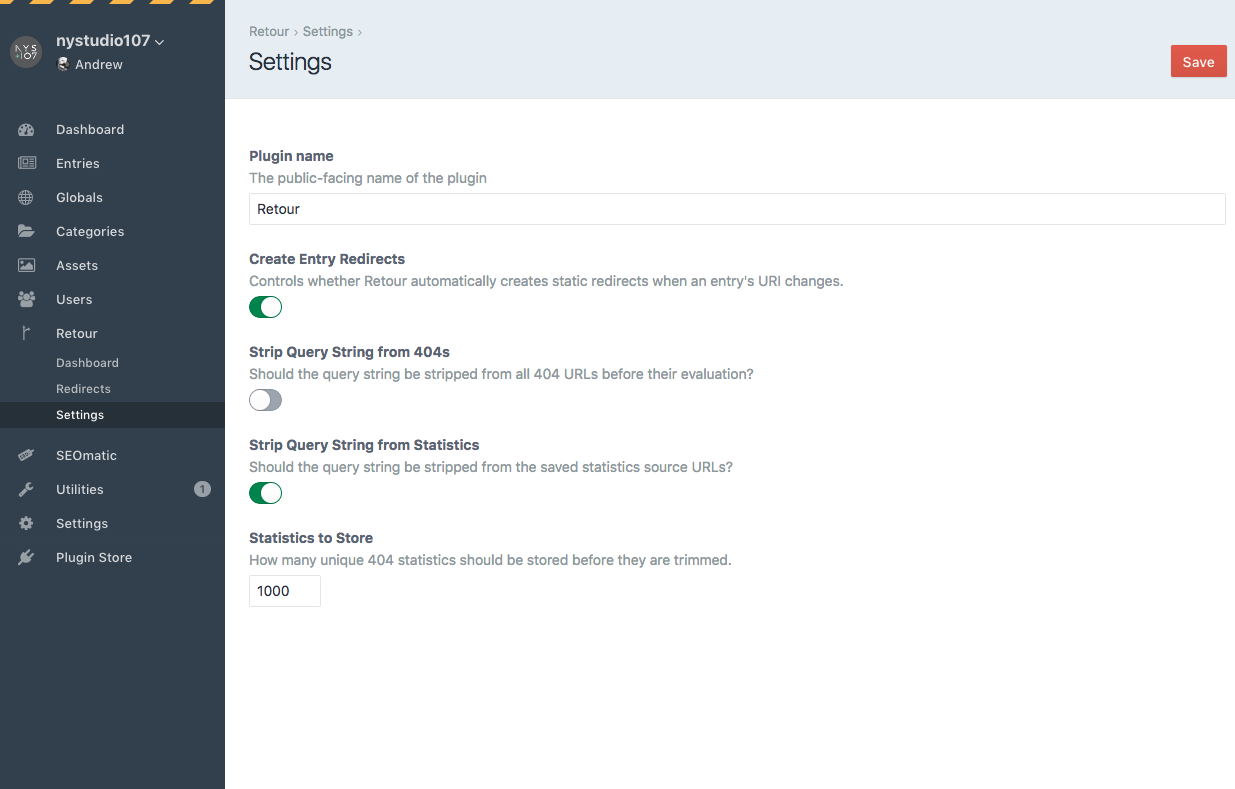
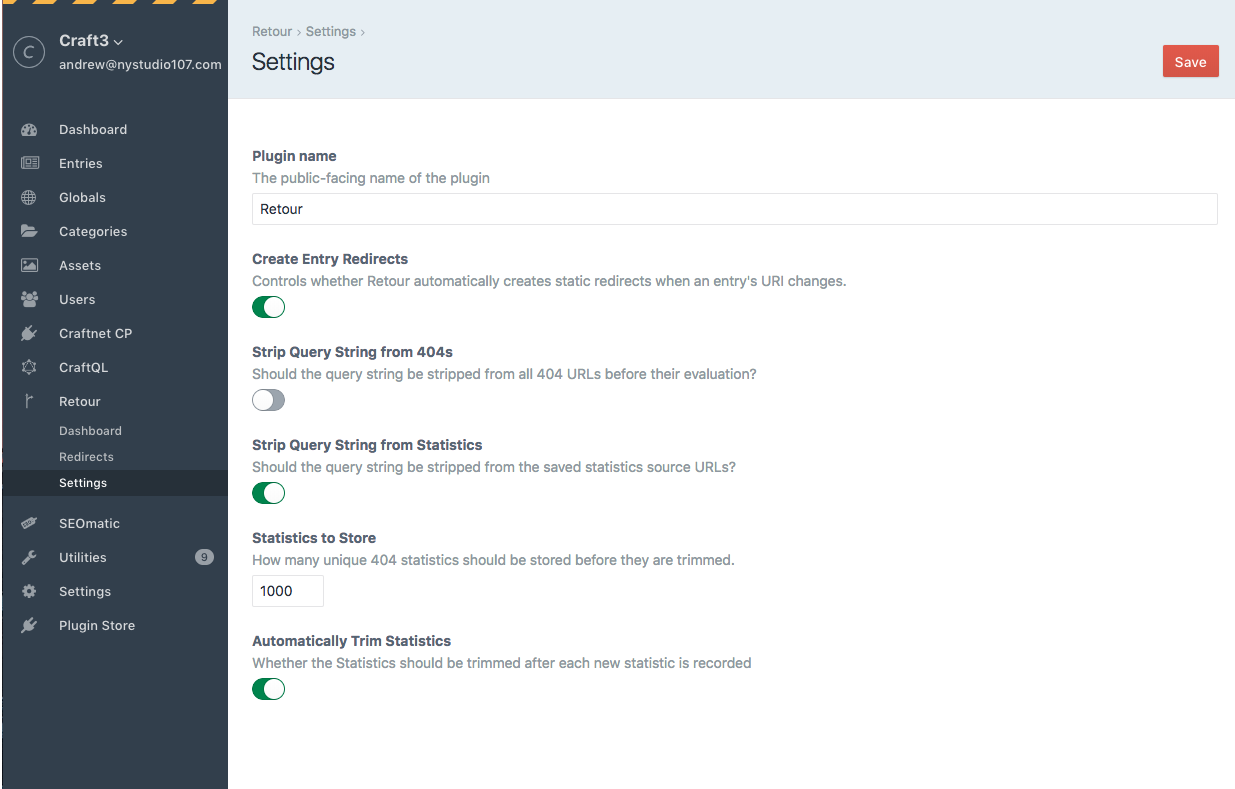
Updated README.md to cover the Console Command

diff --git a/README.md b/README.md
@@ -175,7 +175,8 @@ The **Retour->Settings** page allows you to configure various site-wide settings
 * **Strip Query String from 404s** - Should the query string be stripped from all 404 URLs before their evaluation?
 * **Strip Query String from Statistics** - Should the query string be stripped from the saved statistics source URLs?
 * **Statistics to Store** - How many unique 404 statistics should be stored before they are trimmed.
-                            
+* **Automatically Trim Statistics** - Whether the Statistics should be trimmed after each new statistic is recorded. If you turn this off, statistics will only be trimmed when you visit the Retour Dashboard page in the AdminCP, or you run the `retour/stats/trim` console command (see below).
+   
 ## Using Retour
 
 ### Retour Statistics
@@ -247,6 +248,30 @@ In your main plugin class file, simply add this function:
     }
 
 Your plugin will then appear in the list of Pattern Match Types that can be chosen from via **Retour->Redirects**.
+
+### Console Command
+
+Retour has a built-in `retour/stats/trim` console command that allows you to manually trim the Statistics database table:
+
+```bash
+vagrant@homestead ~/sites/craft3 $ ./craft retour/stats/trim
+Trimming statistics
+Trimmed 0 from retour_stats table
+```
+
+This will trim the `retour_stats` table so that it has only the number of statistics in the table as you've specified via the **Statistics to Store** Setting.
+
+When the `retour_stats` table is trimmed, it sorts the statistics by the **Last Hit** time, and only trims the oldest statistics.
+
+Normally this is done automatically when a new statistic is recored, but for high traffic sites that are constantly hit by bots, you might want to do it manually at regular intervals.
+
+You can also pass in an optional `--limit` to override the **Statistics to Store** Setting, and trim to a specified number of statistics:
+
+```bash
+vagrant@homestead ~/sites/craft3 $ ./craft retour/stats/trim --limit=1
+Trimming statistics
+Trimmed 2 from retour_stats table
+```
 
 ### Utility Functions
 
